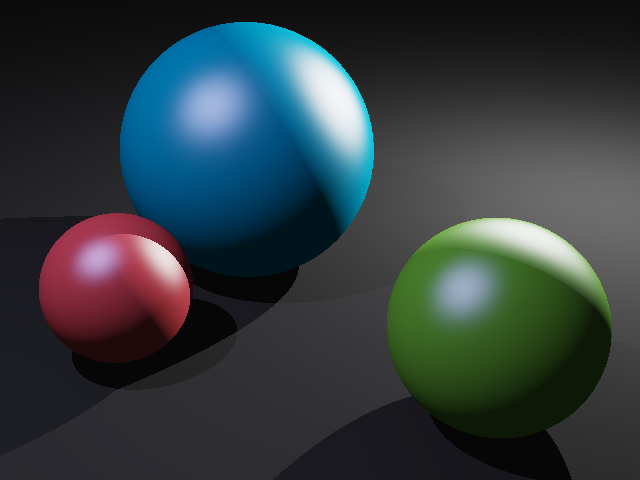
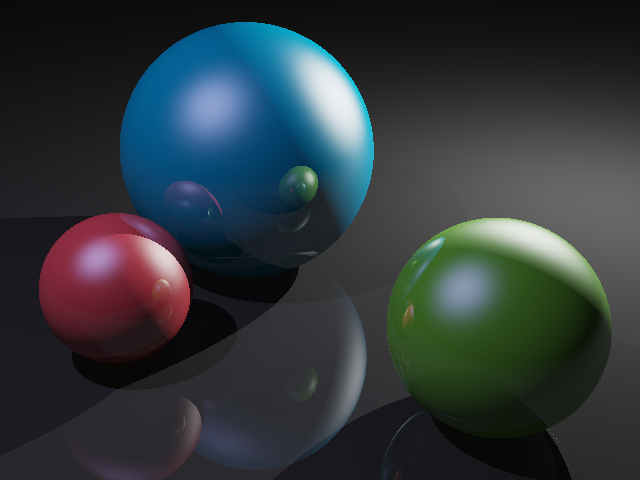
Add reflections

diff --git a/src/tick1/Renderer.java b/src/tick1/Renderer.java
@@ -44,11 +44,34 @@ public class Renderer {
         Vector3 N = closestHit.getNormal();
         Vector3 O = ray.getOrigin();
 
-     	// Illuminate the surface
+		// Calculate direct illumination at the point
+		ColorRGB directIllumination = this.illuminate(scene, object, P, N, O);
 
-     	return this.illuminate(scene, object, P, N, O);
+		// Get reflectivity of object
+		double reflectivity = object.getReflectivity();
 
+		// Base case - if no bounces left or non-reflective surface
+		if (bouncesLeft == 0 || reflectivity == 0) {
+			return directIllumination;
+		}
+		else { // Recursive case
+			ColorRGB reflectedIllumination;
 
+			// Calculate the direction R of the bounced ray
+			Vector3 R = ray.getDirection().reflectIn(N).scale(-1);
+
+			// Spawn a reflectedRay with bias
+			Ray reflectedRay = new Ray(P.add(R.scale(EPSILON)), R);
+
+			// Calculate reflectedIllumination by tracing reflectedRay
+			reflectedIllumination = trace(scene, reflectedRay, bouncesLeft - 1);
+
+			// Scale direct and reflective illumination to conserve light
+			directIllumination = directIllumination.scale(1.0 - reflectivity);
+			reflectedIllumination = reflectedIllumination.scale(reflectivity);
+
+			return directIllumination.add(reflectedIllumination);
+		}
 	}
 
 	/*
@@ -84,7 +107,7 @@ public class Renderer {
 			// Calculate L, V, R
 			Vector3 L = (light.getPosition().subtract(P)).normalised();
 			Vector3 V = (O.subtract(P)).normalised();
-			Vector3 R = ((N.scale(2 * L.dot(N))).subtract(L)).normalised();
+			Vector3 R = L.reflectIn(N);
 
 			// Cast shadow ray
 			Ray shadowRay = new Ray(P.add(L.scale(EPSILON)), L);

diff --git a/src/tick1/Tick1Tests.java b/src/tick1/Tick1Tests.java
@@ -363,7 +363,7 @@ public class Tick1Tests {
 	}
 
 	public static void main(String[] args) {
-		boolean testAll = false;
+		boolean testAll = true;
 		if (args.length > 0) {
 			testAll = args[0].equals("--all") || args[0].equals("-a");
 		}
